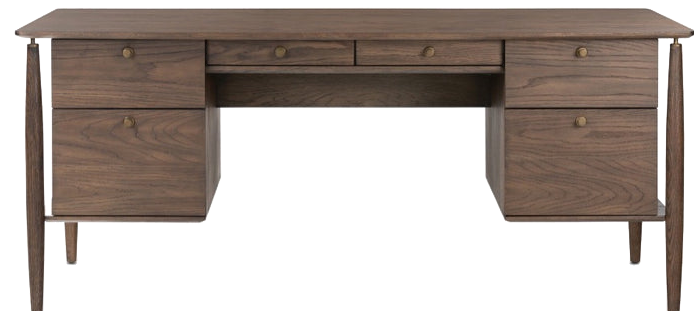
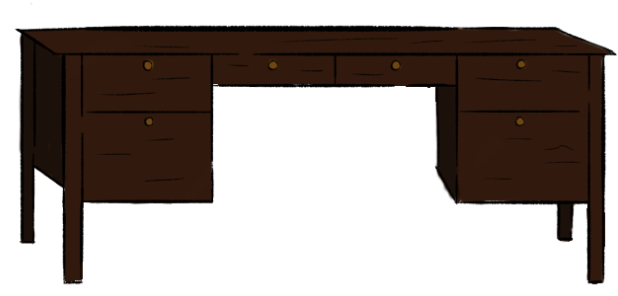
inside hit images changed

diff --git a/The Bush/Minigames/UnlockCellar.html b/The Bush/Minigames/UnlockCellar.html
@@ -26,7 +26,7 @@
 
 
             InitDialogueBox();
-            setInterval(MoveAxe, 1)
+            setInterval(MoveAxe, 1);
             $(document).on('keydown', hit);
 
             function hit(e) {
@@ -73,12 +73,16 @@
 
 <body>
     <div id="backdrop">
-        <div class=stage>
+        <div id=stage>
             <h1 class="MG-instructions"> Press "SPACE" when the axe is in the green, you get 3 attempts.</h1>
+             <figure id="desk-fig"> <img id="desk" src="../Images/desk.png"></figure>
+            <figure id="cellar-fig"> <img id="cellar" src="../Images/cellar.png">
+            </figure>
+            <figure id="locker-fig"> <img id="locker" src="../Images/locker.png"></figure>
         </div>
         <div id="bar" class="ui ui1">
             <img id="axe-icon"
-                src="../Images/old-rust-dirty-dark-gray-ax-with-brown-wooden-handle-isolated-with-clipping-path-in-format-png.png">
+                src="../Images/axe.png">
             <div id="red1"></div>
             <div id="green"></div>
             <div id="red2"></div>

diff --git a/The Bush/Style Sheets/Unlock-Cellar.css b/The Bush/Style Sheets/Unlock-Cellar.css
@@ -1,5 +1,5 @@
 #backdrop {
-    background-image: url("../Images/cellar door.jpg");
+    background-image: url("../Images/inside-hut.png");
     background-size: contain;
     background-repeat: round;
 }
@@ -24,10 +24,10 @@
 
 #axe-icon {
     position: absolute;
-  width: 10%;
-  transform: rotate(90deg);
-  left: -4%;
-  top: 39%;
+  width: 5%;
+  transform: rotate(180deg);
+  left: 4%;
+  top: 2%;
 }
 
 #red1 {
@@ -50,4 +50,22 @@
     background-color: rgb(0, 206, 0);
     grid-column: 2;
 
+}
+
+#locker-fig {
+    left: 12%;
+    width: 17%;
+    top: 36%;
+}
+
+#desk-fig {
+    width: 30%;
+    top: 56%;
+    left: 53%;
+}
+
+#cellar-fig {
+    width: 20%;
+    left: 32%;
+    top: 50%;
 }

diff --git a/The Bush/Style Sheets/Breathing.css b/The Bush/Style Sheets/Breathing.css
@@ -1,31 +1,31 @@
 #backdrop {
-    background-image: url("../Images/Inside-Hut.jpg");
+    background-image: url("../Images/inside-hut.png");
     background-repeat: round;
     background-size: contain;
 }
 
 #locker-fig {
-    left: 62%;
-    width: 25%;
-    top: 38%;
-}
-
-#cellar-fig {
-    width: 20%;
-    left: 45%;
-    top: 52%;
+    left: 12%;
+    width: 17%;
+    top: 36%;
 }
 
 #desk-fig {
     width: 30%;
     top: 56%;
-    left: 15%;
+    left: 53%;
+}
+
+#cellar-fig {
+    width: 20%;
+    left: 32%;
+    top: 50%;
 }
 
 #car-battery-fig {
-    left: 18%;
-    top: 50%;
-    width: 6%;
+  left: 57%;
+  top: 52%;
+  width: 6%;
 }
 
 #green {

diff --git a/The Bush/Style Sheets/Inside-Hut.css b/The Bush/Style Sheets/Inside-Hut.css
@@ -1,29 +1,29 @@
 #backdrop {
-    background-image: url("../Images/Inside-Hut.jpg");
+    background-image: url("../Images/inside-hut.png");
     background-repeat: round;
     background-size: contain;
 }
 
 #locker-fig {
-    left: 62%;
-    width: 25%;
-    top: 38%;
-}
-
-#cellar-fig {
-    width: 20%;
-    left: 45%;
-    top: 52%;
+    left: 12%;
+    width: 17%;
+    top: 36%;
 }
 
 #desk-fig {
     width: 30%;
     top: 56%;
-    left: 15%;
+    left: 53%;
+}
+
+#cellar-fig {
+    width: 20%;
+    left: 32%;
+    top: 50%;
 }
 
 #car-battery-fig {
-  left: 18%;
-  top: 50%;
+  left: 57%;
+  top: 52%;
   width: 6%;
 }

diff --git a/The Bush/Locations/Inside Hut.html b/The Bush/Locations/Inside Hut.html
@@ -321,7 +321,7 @@
         <div id="stage">
             <figure id="car-battery-fig"></figure>
             <figure id="desk-fig"> <img id="desk" class="clickable" src="../Images/desk.png"></figure>
-            <figure id="cellar-fig"> <img id="cellar" class="clickable" src="../Images/cellar-door-cropped.png">
+            <figure id="cellar-fig"> <img id="cellar" class="clickable" src="../Images/cellar.png">
             </figure>
             <figure id="locker-fig"> <img id="locker" class="clickable" src="../Images/locker.png"></figure>
         </div>

diff --git a/The Bush/Minigames/Breathing.html b/The Bush/Minigames/Breathing.html
@@ -106,7 +106,7 @@
                 breath. Keep the head in the green.</h1>
             <figure id="car-battery-fig"></figure>
             <figure id="desk-fig"> <img id="desk" src="../Images/desk.png"></figure>
-            <figure id="cellar-fig"> <img id="cellar" src="../Images/cellar-door-cropped.png">
+            <figure id="cellar-fig"> <img id="cellar" src="../Images/cellar.png">
             </figure>
             <figure id="locker-fig"> <img id="locker" src="../Images/locker.png"></figure>
         </div>

diff --git a/The Bush/Style Sheets/Main.css b/The Bush/Style Sheets/Main.css
@@ -17,6 +17,10 @@ body {
     margin-top: 100px;
 }
 
+#portrait {
+    position: absolute;
+}
+
 p {
     align-self: center;
 }
@@ -31,6 +35,7 @@ p {
     margin-right: 15%;
     color: white;
     text-align: center;
+    /* position: absolute; */
 }
 
 #back-button {
